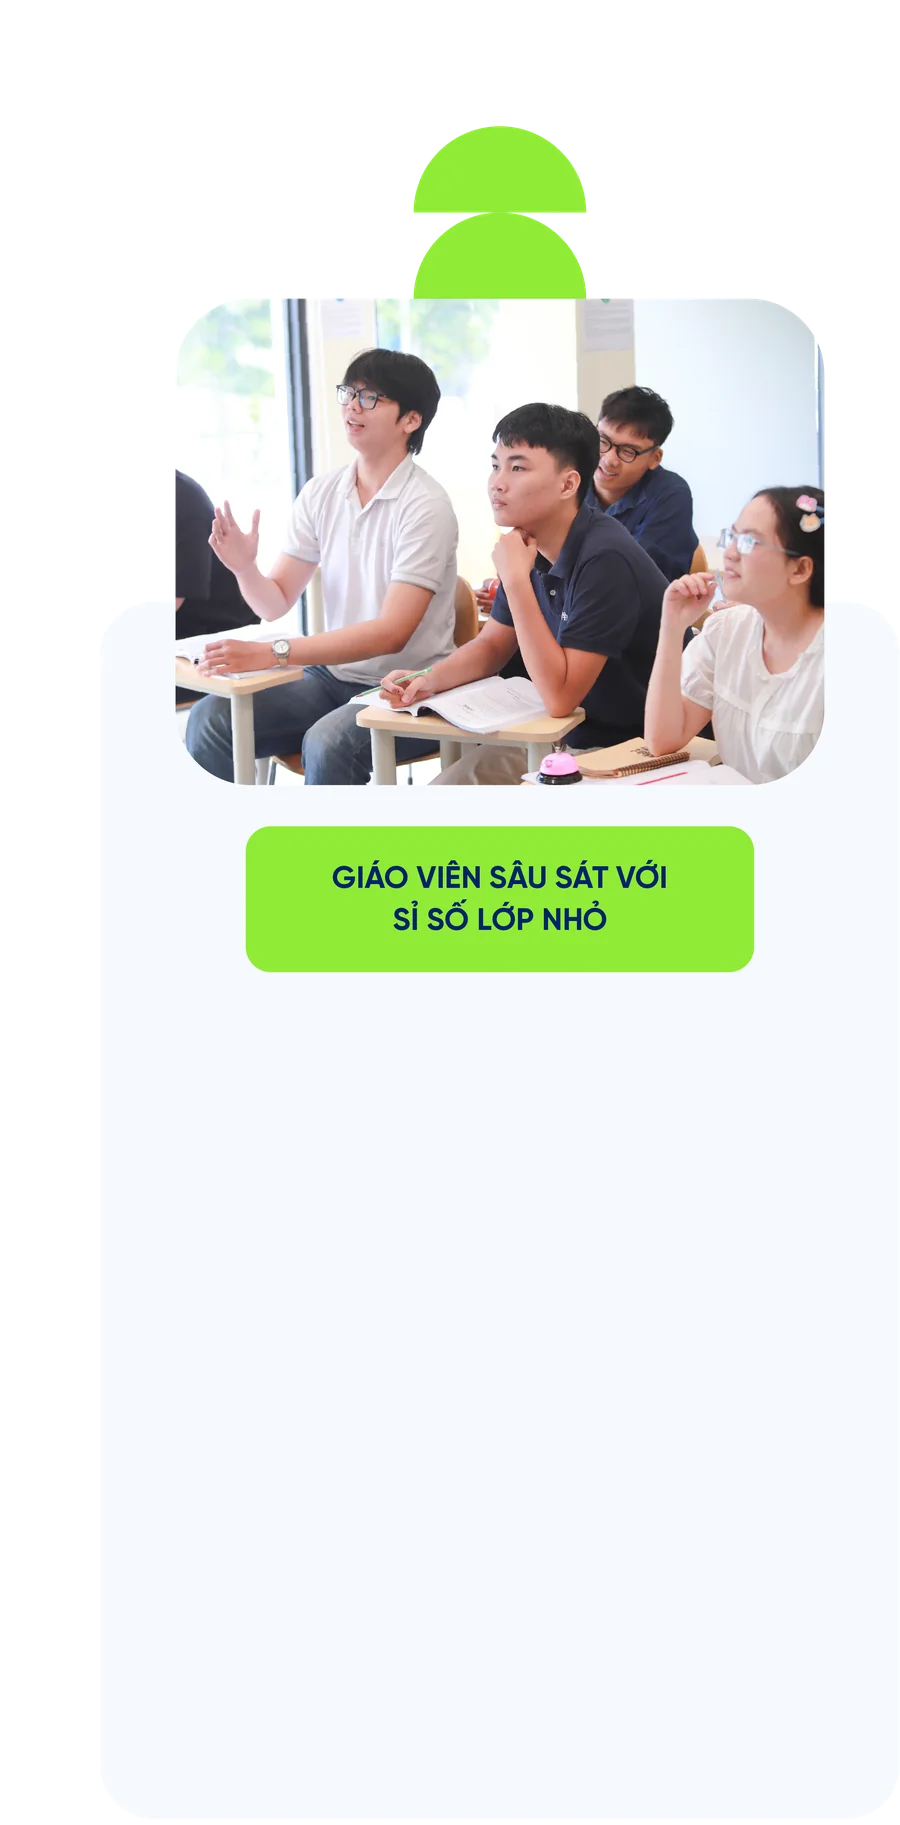
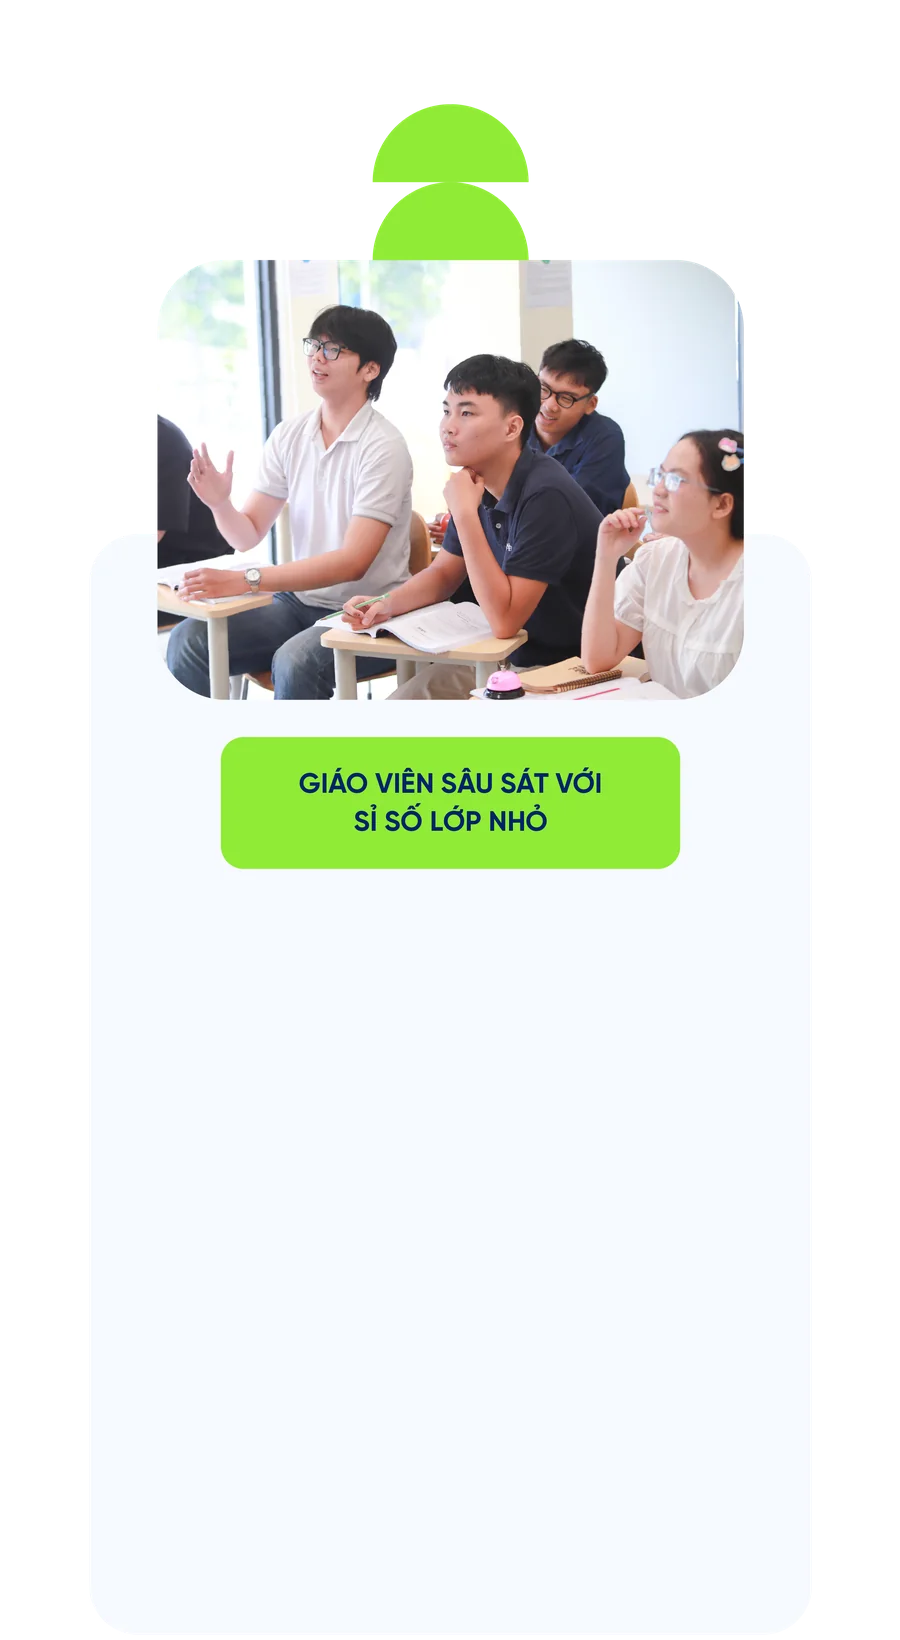
LP giới thiệu YOLA: card section 2-3 cùng cỡ, đủ element; section 3 desktop 3 card nhỏ hơn; carousel không trượt quá card cuối
Claude-Session: https://claude.ai/code/session_01SFdUKDWz5C1xDm6uD4ha55

Changed region(s): [[0.1556, 0.0622, 0.9333, 0.5598]]

diff --git a/gioi-thieu-yola/index.html b/gioi-thieu-yola/index.html
@@ -333,7 +333,6 @@ footer li a:hover{color:var(--sky)}
   #stu-scroll2{grid-auto-columns:80vw}
   #tch-scroll2{grid-auto-columns:76vw}
   .car-wrap.cslide .car-scroll{padding-left:16px;padding-right:16px;scroll-padding-left:16px}
-  .car-wrap.cslide .car-scroll::after{content:'';display:block;width:6px}
 }
 @media(min-width:821px){.v2-s3 .s3-rest-m{display:none}}
 
@@ -342,8 +341,7 @@ footer li a:hover{color:var(--sky)}
 .only-m{display:none}
 .cslide{position:relative;padding:0}
 @media(max-width:820px){.cslide{margin:0 -24px}}
-.cslide-track{grid-auto-columns:88vw;gap:10px;padding:6px 16px 12px;scroll-padding-left:16px;align-items:end}
-.cslide-track::after{content:'';display:block;width:6px}
+.cslide-track{grid-auto-columns:88vw;gap:8px;padding:6px 16px 12px;scroll-padding-left:16px;align-items:end}
 .cslide-card{border-radius:0;margin:0;width:100%}
 .cslide-card .tb{font-size:3.6cqw;line-height:1.5}
 .cslide-card .tb.navy{color:#0B2467}
@@ -352,7 +350,7 @@ footer li a:hover{color:var(--sky)}
 .cslide-dots i.on{width:22px;border-radius:6px;background:var(--navy)}
 .v2-s3 .cslide-dots i{background:rgba(255,255,255,.45)}
 .v2-s3 .cslide-dots i.on{background:#fff}
-@media(max-width:820px){ .only-m{display:block} .comp-d{display:none} .v2-s3 .cslide-card .tb{font-size:4.2cqw} }
+@media(max-width:820px){ .only-m{display:block} .comp-d{display:none}  }
 /* ===== Title đồng bộ: desktop chữ cao ~48px, mobile 2 dòng chữ cao ~30px ===== */
 .v2-title{display:block;margin:0 auto 28px;height:auto}
 .v2-title.t4{width:min(930px,92%)}
@@ -363,6 +361,25 @@ footer li a:hover{color:var(--sky)}
 .title-m .l-s4a{height:30px} .title-m .l-s4b{height:46px}
 .title-m .l-s5a{height:58px} .title-m .l-s5b{height:67px}
 @media(max-width:820px){ .v2-title.t4,.v2-title.t5{display:none} .title-m{display:flex} .s3-rest-m{font-size:30px} .comp-m.s3badge{max-width:250px} }
+
+/* ===== Section 3: 3 card so le trên desktop (thu nhỏ), carousel trên mobile ===== */
+.s3-head{display:flex;align-items:center;justify-content:center;gap:18px;flex-wrap:wrap;margin:0 auto 34px}
+.s3-head img{width:min(330px,60vw);height:auto}
+.s3-head span{color:#fff;font-weight:800;font-size:clamp(24px,3vw,40px);text-transform:uppercase;letter-spacing:.01em;line-height:1}
+#s3slide .cslide-track{display:flex;justify-content:center;align-items:flex-end;gap:28px;overflow:visible;padding:0;grid-auto-columns:auto;scroll-snap-type:none}
+#s3slide .cslide-card{width:min(370px,28vw);flex:0 0 auto}
+#s3slide .cslide-card:nth-child(2){margin-bottom:calc(min(370px,28vw)*.10)}
+#s3slide .cslide-card:nth-child(3){margin-bottom:calc(min(370px,28vw)*.20)}
+#s3slide .cslide-card .tb{font-size:4.5cqw;line-height:1.5}
+#s3slide .cslide-dots{display:none}
+@media(max-width:820px){
+  .s3-head{margin-bottom:24px;gap:10px}
+  .s3-head span{font-size:26px}
+  #s3slide .cslide-track{display:grid;justify-content:start;align-items:end;gap:8px;overflow-x:auto;padding:6px 16px 12px;grid-auto-columns:88vw;scroll-snap-type:x mandatory}
+  #s3slide .cslide-card{width:100%;margin-bottom:0 !important}
+  #s3slide .cslide-card .tb{font-size:4.2cqw}
+  #s3slide .cslide-dots{display:flex}
+}
 </style>
 </head>
 <body>
@@ -393,7 +410,7 @@ footer li a:hover{color:var(--sky)}
   <div class="only-m">
     <div class="title-m"><img class="l-s2a" src="../assets/img_rb_s2_title_l1.webp" alt="Vững tư duy học thuật"><img class="l-s2b" src="../assets/img_rb_s2_title_l2.webp" alt="cho các kỳ thi"></div>
     <div class="cslide" id="s2slide" data-autoplay="4200">
-      <div class="cslide-track car-scroll" id="s2slide-track"><div class="comp cslide-card"><img src="../assets/img_rb_s2_card1_m.webp" alt="" loading="lazy" width="900" height="1390"><div class="tb" style="left:15.62%;top:67.81%;width:68.75%;height:30.14%"><p>Con phát triển 4 kỹ năng qua những mảng kiến thức thật: thần thoại Hy Lạp, các nền văn minh cổ, văn hóa thế giới. Con học tiếng Anh bằng cách khám phá thế giới, không chỉ ghi nhớ từ vựng rời&nbsp;rạc.</p></div></div><div class="comp cslide-card"><img src="../assets/img_rb_s2_card2_m.webp" alt="" loading="lazy" width="900" height="1385"><div class="tb navy" style="left:15.57%;top:67.12%;width:68.86%;height:32.19%"><p>Cuối mỗi kỳ, con tự xây một bài thuyết trình: chọn chủ đề, tìm ý, lập luận và bảo vệ quan điểm trước lớp — từ chuyện gần gũi như tình bạn, ẩm thực đến những câu hỏi lớn về thế&nbsp;giới.</p><p>Giáo viên chấm theo chuẩn học thuật: 4 kỹ năng, cách trình bày và tư duy logic. Kiến thức văn hóa xã hội trở thành chính kiến của&nbsp;con.</p></div></div><div class="comp cslide-card"><img src="../assets/img_rb_s2_card3_m.webp" alt="" loading="lazy" width="900" height="1390"><div class="tb" style="left:15.63%;top:67.81%;width:68.75%;height:30.14%"><p>Dự án nhóm, trò chơi, vẽ, đóng kịch, xem tư liệu gốc — mỗi buổi học là một trải nghiệm khác&nbsp;nhau.</p><p>Lớp học đủ vui để con mong đến ngày học, và đủ không gian để mỗi học sinh đều được chia sẻ ý&nbsp;kiến.</p></div></div></div>
+      <div class="cslide-track car-scroll" id="s2slide-track"><div class="comp cslide-card"><img src="../assets/img_rb_s2_card1_m.webp" alt="" loading="lazy" width="900" height="1733"><div class="tb" style="left:10.40%;top:70.25%;width:79.20%;height:27.85%"><p>Con phát triển 4 kỹ năng qua những mảng kiến thức thật: thần thoại Hy Lạp, các nền văn minh cổ, văn hóa thế giới. Con học tiếng Anh bằng cách khám phá thế giới, không chỉ ghi nhớ từ vựng rời&nbsp;rạc.</p></div></div><div class="comp cslide-card"><img src="../assets/img_rb_s2_card2_m.webp" alt="" loading="lazy" width="900" height="1733"><div class="tb navy" style="left:10.20%;top:69.62%;width:79.60%;height:29.75%"><p>Cuối mỗi kỳ, con tự xây một bài thuyết trình: chọn chủ đề, tìm ý, lập luận và bảo vệ quan điểm trước lớp — từ chuyện gần gũi như tình bạn, ẩm thực đến những câu hỏi lớn về thế&nbsp;giới.</p><p>Giáo viên chấm theo chuẩn học thuật: 4 kỹ năng, cách trình bày và tư duy logic. Kiến thức văn hóa xã hội trở thành chính kiến của&nbsp;con.</p></div></div><div class="comp cslide-card"><img src="../assets/img_rb_s2_card3_m.webp" alt="" loading="lazy" width="900" height="1733"><div class="tb" style="left:10.40%;top:70.25%;width:79.20%;height:27.85%"><p>Dự án nhóm, trò chơi, vẽ, đóng kịch, xem tư liệu gốc — mỗi buổi học là một trải nghiệm khác&nbsp;nhau.</p><p>Lớp học đủ vui để con mong đến ngày học, và đủ không gian để mỗi học sinh đều được chia sẻ ý&nbsp;kiến.</p></div></div></div>
       <div class="cslide-dots" aria-hidden="true"></div>
     </div>
   </div>
@@ -401,12 +418,10 @@ footer li a:hover{color:var(--sky)}
 
 <!-- ============ SECTION 3 — RÕ TIẾN BỘ ============ -->
 <section class="v2-s3" id="tien-bo">
-  <div class="comp comp-d"><img src="../assets/img_rb_s3_comp.webp" alt="Rõ tiến bộ trên từng khoá học" width="2200" height="1982" loading="lazy"><div class="tb dark" style="left:2.00%;top:64.00%;width:28.00%;height:33.50%"><p>Sau mỗi buổi học, ba mẹ được cập nhật chi tiết qua Zalo: hôm nay con học gì, 4 kỹ năng tiến bộ đến đâu, con thể hiện thế nào trong&nbsp;lớp.</p></div><div class="tb dark" style="left:35.50%;top:59.50%;width:29.00%;height:33.50%"><p>Con cần hỗ trợ kỹ năng nào, thầy cô kèm kịp thời kỹ năng đó. Khi phát hiện kỹ năng yếu, học sinh được học miễn phí: lớp kèm riêng, học nhóm, ôn ngữ pháp hay luyện Cambridge trước kỳ&nbsp;thi.</p><p>Phát hiện sớm, hỗ trợ sát sao kịp thời để đảm bảo sự tiến bộ cho&nbsp;con.</p></div><div class="tb dark" style="left:69.00%;top:55.00%;width:29.50%;height:33.50%"><p>Lớp trung bình 11–12 học sinh để buổi nào con cũng được nói, được&nbsp;sửa.</p><p>Giáo viên sâu sát, biết điểm mạnh và điểm yếu của từng học&nbsp;sinh.</p></div></div>
-  <div class="only-m">
-    <div class="comp comp-m s3badge" style="max-width:250px"><img src="../assets/img_rb_s3_title_m.webp" alt="Rõ tiến bộ" width="900" height="286" loading="lazy"></div>
-    <div class="s3-rest-m">Trên từng khoá học</div>
+  <div class="wrap">
+    <div class="s3-head"><img src="../assets/img_rb_s3_title_m.webp" alt="Rõ tiến bộ" width="900" height="286" loading="lazy"><span>Trên từng khoá học</span></div>
     <div class="cslide" id="s3slide" data-autoplay="4200">
-      <div class="cslide-track car-scroll" id="s3slide-track"><div class="comp cslide-card"><img src="../assets/img_rb_s3_card1_m.webp" alt="" loading="lazy" width="900" height="1631"><div class="tb dark" style="left:5.51%;top:50.68%;width:77.13%;height:45.89%"><p>Sau mỗi buổi học, ba mẹ được cập nhật chi tiết qua Zalo: hôm nay con học gì, 4 kỹ năng tiến bộ đến đâu, con thể hiện thế nào trong&nbsp;lớp.</p></div></div><div class="comp cslide-card"><img src="../assets/img_rb_s3_card2_m.webp" alt="" loading="lazy" width="900" height="1639"><div class="tb dark" style="left:14.14%;top:55.83%;width:71.96%;height:41.10%"><p>Con cần hỗ trợ kỹ năng nào, thầy cô kèm kịp thời kỹ năng đó. Khi phát hiện kỹ năng yếu, học sinh được học miễn phí: lớp kèm riêng, học nhóm, ôn ngữ pháp hay luyện Cambridge trước kỳ&nbsp;thi.</p><p>Phát hiện sớm, hỗ trợ sát sao kịp thời để đảm bảo sự tiến bộ cho&nbsp;con.</p></div></div><div class="comp cslide-card"><img src="../assets/img_rb_s3_card3_m.webp" alt="" loading="lazy" width="900" height="1825"><div class="tb dark" style="left:14.84%;top:56.10%;width:81.04%;height:40.85%"><p>Lớp trung bình 11–12 học sinh để buổi nào con cũng được nói, được&nbsp;sửa.</p><p>Giáo viên sâu sát, biết điểm mạnh và điểm yếu của từng học&nbsp;sinh.</p></div></div></div>
+      <div class="cslide-track car-scroll" id="s3slide-track"><div class="comp cslide-card"><img src="../assets/img_rb_s3_card1_m.webp" alt="" loading="lazy" width="900" height="1640"><div class="tb dark" style="left:14.14%;top:55.95%;width:71.96%;height:41.10%"><p>Sau mỗi buổi học, ba mẹ được cập nhật chi tiết qua Zalo: hôm nay con học gì, 4 kỹ năng tiến bộ đến đâu, con thể hiện thế nào trong&nbsp;lớp.</p></div></div><div class="comp cslide-card"><img src="../assets/img_rb_s3_card2_m.webp" alt="" loading="lazy" width="900" height="1640"><div class="tb dark" style="left:14.14%;top:55.83%;width:71.96%;height:41.10%"><p>Con cần hỗ trợ kỹ năng nào, thầy cô kèm kịp thời kỹ năng đó. Khi phát hiện kỹ năng yếu, học sinh được học miễn phí: lớp kèm riêng, học nhóm, ôn ngữ pháp hay luyện Cambridge trước kỳ&nbsp;thi.</p><p>Phát hiện sớm, hỗ trợ sát sao kịp thời để đảm bảo sự tiến bộ cho&nbsp;con.</p></div></div><div class="comp cslide-card"><img src="../assets/img_rb_s3_card3_m.webp" alt="" loading="lazy" width="900" height="1640"><div class="tb dark" style="left:14.02%;top:55.58%;width:72.21%;height:41.10%"><p>Lớp trung bình 11–12 học sinh để buổi nào con cũng được nói, được&nbsp;sửa.</p><p>Giáo viên sâu sát, biết điểm mạnh và điểm yếu của từng học&nbsp;sinh.</p></div></div></div>
       <div class="cslide-dots" aria-hidden="true"></div>
     </div>
   </div>
@@ -728,9 +743,9 @@ document.querySelectorAll('.cslide').forEach(function(sl){
   var idx=0, timer=null, paused=false, delay=parseInt(sl.dataset.autoplay||'4000',10), nodots=!!sl.dataset.nodots;
   function cards(){ return track.children; }
   function step(){ var c=cards()[0]; if(!c) return 300; var g=parseFloat(getComputedStyle(track).columnGap)||parseFloat(getComputedStyle(track).gap)||12; return c.getBoundingClientRect().width+g; }
-  function maxIdx(){ return Math.max(0, Math.round((track.scrollWidth - track.clientWidth)/step())); }
+  function maxIdx(){ var over=track.scrollWidth - track.clientWidth; if(over<4) return 0; return Math.min(cards().length-1, Math.ceil(over/step()-0.05)); }
   function buildDots(){ if(nodots||!dots) return; dots.innerHTML=''; for(var i=0;i<cards().length;i++){ var d=document.createElement('i'); if(i===idx)d.className='on'; dots.appendChild(d);} }
-  function go(i){ idx=i; track.style.scrollSnapType='none'; track.scrollTo({left:i*step(), behavior:'smooth'}); setTimeout(function(){ track.style.scrollSnapType=''; },700); }
+  function go(i){ idx=i; var left=Math.min(i*step(), track.scrollWidth-track.clientWidth); track.style.scrollSnapType='none'; track.scrollTo({left:left, behavior:'smooth'}); setTimeout(function(){ track.style.scrollSnapType=''; },700); }
   function next(){ go(idx>=maxIdx()?0:idx+1); }
   function start(){ stop(); timer=setInterval(function(){ if(!paused) next(); }, delay); }
   function stop(){ if(timer) clearInterval(timer); timer=null; }
